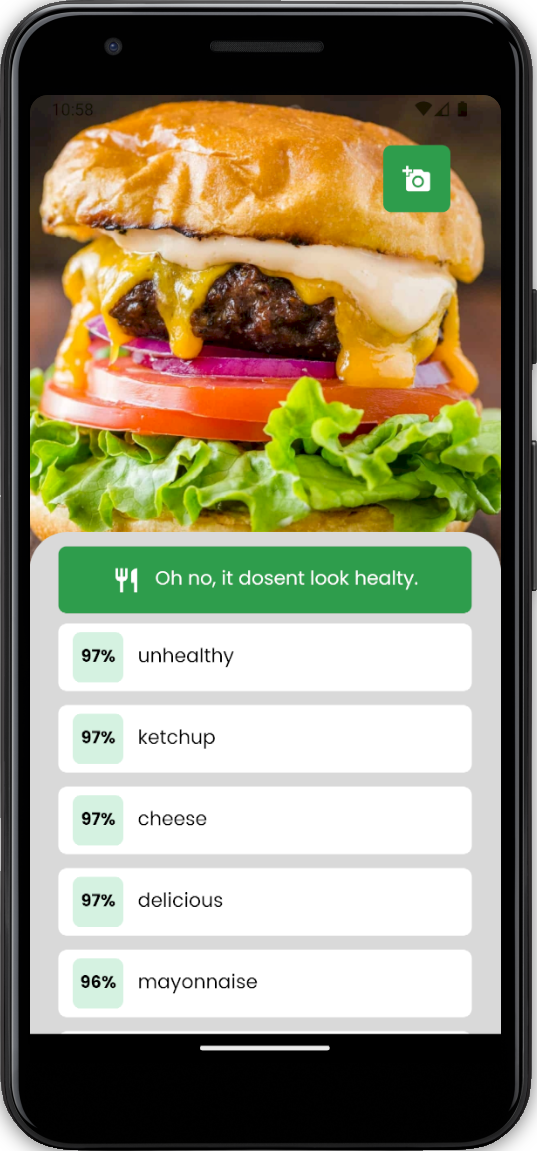
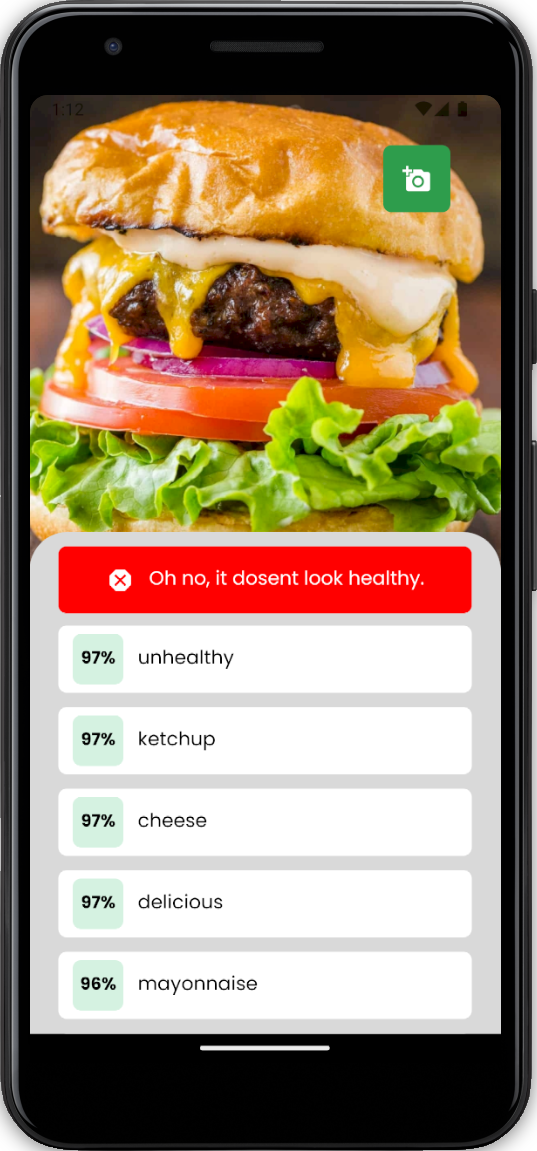
done

diff --git a/src/screens/Home/index.tsx b/src/screens/Home/index.tsx
@@ -1,5 +1,5 @@
 import { useState } from 'react';
-import { Image, ScrollView, Text, View } from 'react-native';
+import { Image, ScrollView, Text, View, StyleSheet } from 'react-native';
 import * as ImagePicker from 'expo-image-picker';
 import * as ImageManipulator from 'expo-image-manipulator';
 
@@ -8,10 +8,11 @@ import { foodContains } from '../../utils/foodContains';
 
 import { styles } from './styles';
 
-import { Tip } from '../../components/Tip';
+import { TipHealty } from '../../components/TipHealty';
 import { Button } from '../../components/Button';
 import { Loading } from '../../components/Loading';
 import { Item, ItemProps } from '../../components/Item';
+import { TipUnhealty } from '../../components/TipUnhealty';
 
 export function Home() {
   const [selectedImageUri, setSelectedImageUri] = useState('');
@@ -96,7 +97,7 @@ export function Home() {
     const isVegetable = foodContains(foods, 'vegetable');
     setMessage(
       isVegetable ? 
-      'Your plate looks healty' : 'Oh no, it dosent look healty.'
+      'Your plate looks healthy' : 'Oh no, it dosent look healthy.'
       );
 
     setItems(foods);
@@ -124,7 +125,16 @@ export function Home() {
         {
           isLoading ? <Loading /> :
           <>
-            { message && <Tip message={message} /> }
+          
+            {/* If Unhealty  */}
+            {message && !foodContains(items, 'vegetable') && (
+              <TipUnhealty message={message} />
+            )}
+
+            {/* If Healty */}
+            {message && foodContains(items, 'vegetable') && (
+              <TipHealty message={message} />
+            )}
 
             <ScrollView showsVerticalScrollIndicator={false} contentContainerStyle={{ paddingVertical: 24 }}>
               <View style={styles.items}>

diff --git a/src/components/TipHealty/index.tsx b/src/components/TipHealty/index.tsx
@@ -1,0 +1,24 @@
+import { Text, View } from 'react-native';
+import { MaterialIcons } from '@expo/vector-icons';
+
+import { styles } from './styles';
+
+type Props = {
+  message: string;
+}
+
+export function TipHealty({ message }: Props) {
+  return (
+    <View style={styles.container}>
+      <MaterialIcons
+        name="restaurant"
+        color="#FFFFFF"
+        size={24}
+      />
+
+      <Text style={styles.message}>
+        {message}
+      </Text>
+    </View>
+  );
+}

diff --git a/src/components/TipHealty/styles.ts b/src/components/TipHealty/styles.ts
@@ -1,0 +1,19 @@
+import { StyleSheet } from "react-native";
+
+export const styles = StyleSheet.create({
+  container: {
+    width: '100%',
+    flexDirection: 'row',
+    gap: 12,
+    alignItems: 'center',
+    height: 56,
+    borderRadius: 7,
+    justifyContent: 'center',
+    backgroundColor: "#2E9D4C",
+  },
+  message: {
+    fontFamily: "Poppins_400Regular",
+    fontSize: 16,
+    color: "#FFFFFF",
+  }
+});

diff --git a/src/components/TipUnhealty/index.tsx b/src/components/TipUnhealty/index.tsx
@@ -7,11 +7,11 @@ type Props = {
   message: string;
 }
 
-export function Tip({ message }: Props) {
+export function TipUnhealty({ message }: Props) {
   return (
     <View style={styles.container}>
       <MaterialIcons
-        name="restaurant"
+        name="dangerous"
         color="#FFFFFF"
         size={24}
       />

diff --git a/src/components/TipUnhealty/styles.ts b/src/components/TipUnhealty/styles.ts
@@ -9,7 +9,7 @@ export const styles = StyleSheet.create({
     height: 56,
     borderRadius: 7,
     justifyContent: 'center',
-    backgroundColor: "#2E9D4C",
+    backgroundColor: "#ff0000",
   },
   message: {
     fontFamily: "Poppins_400Regular",

diff --git a/README.md b/README.md
@@ -1,15 +1,15 @@
 <div>
-  <h1 align="center">HealthTips</h1>
+  <h1 align="center">healthyTips</h1>
 </div>
 
 <p align="center">
-  <img alt="HealthTips" src="./preview/preview1.png" width="49%" />
-  <img alt="HealthTips" src="./preview/preview2.png" width="49%" />
+  <img alt="healthyTips" src="./preview/preview1.png" width="49%" />
+  <img alt="healthyTips" src="./preview/preview2.png" width="49%" />
 </p>
 
 
 ## About
-Eat well and stay healthy! This project was developed to help people to have a healthier life, with tips and recipes to improve their health.
+Eat well and stay healthy! This project was developed to help people to have a healthier life, with tips and recipes to improve their life.
 
 ## Mobile
 - Expo
